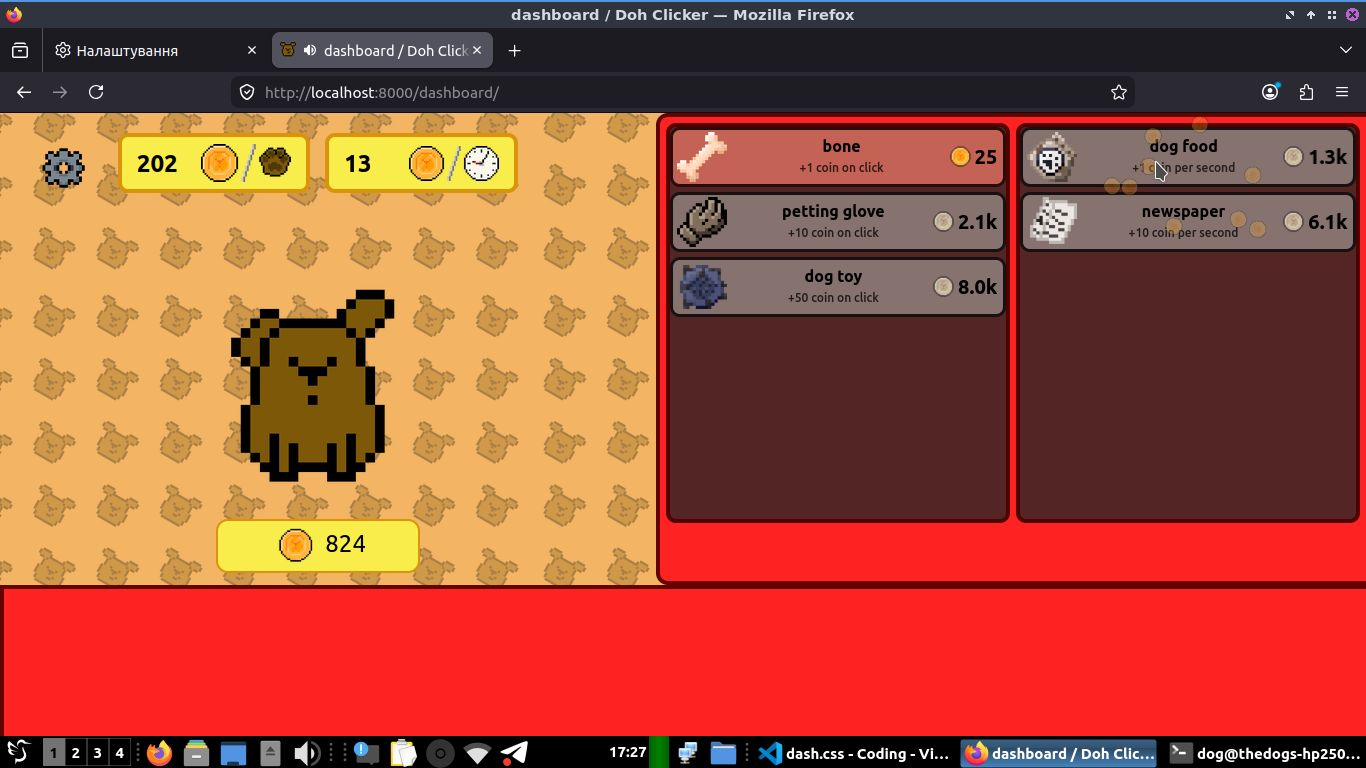
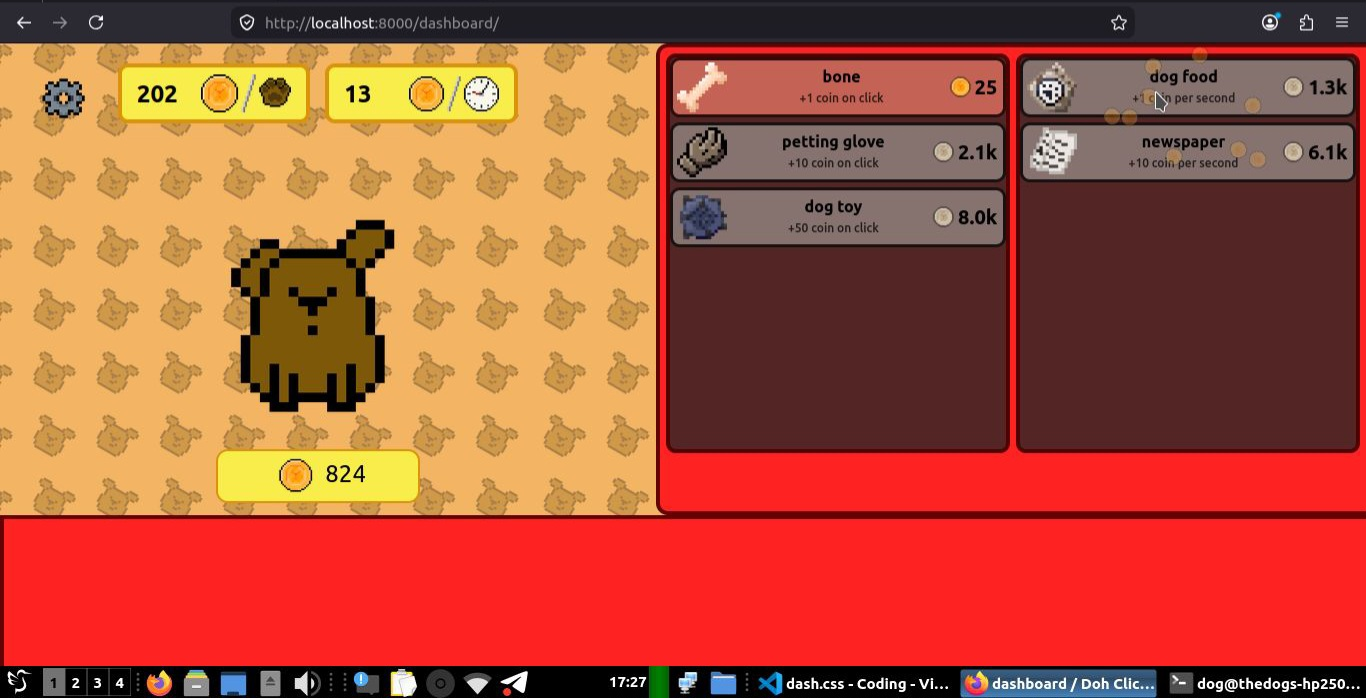
Readme

diff --git a/README.md b/README.md
@@ -1,0 +1,79 @@
+# Doh Clicker
+
+A browser-based clicker game built with Django and pure JS.
+
+The project was created as a learning project to practice backend web development, REST APIs, PostgreSQL, and frontend-backend synchronization to build a full web application.
+
+## Features
+
+- ⚡ Passive income system
+- 📈 Upgrade system
+- 🔊 Sound settings
+- 🔄 Server synchronization
+- 🛡️ Server-side validation
+- 📚 REST API
+- 🐘 PostgreSQL support
+
+---
+
+## Tech Stack
+
+### Backend
+
+- Python
+- Django
+- Django REST Framework
+- PostgreSQL
+
+### Frontend
+
+- HTML
+- CSS
+- Vanilla JavaScript
+
+### Tools
+
+- Locust
+- Swagger
+
+---
+
+## Screenshots
+
+### Main page
+
+![Main page](Dog_Readme/1.jpg)
+
+### Dashboard
+
+![](Dog_Readme/2.jpg)
+![](Dog_Readme/3.jpg)
+
+---
+
+## Video
+
+A full gameplay demonstration of **v0.2** is avaiable [here](https://t.me/empty_channel_00/310).
+
+---
+
+## 🚀 Running locally
+
+```shell
+$ git clone <repo>
+
+$ python -m venv venv
+$ source venv/bin/activate
+
+$ pip install -r requirements.txt
+
+$ python manage.py migrate
+$ python manage.py runserver
+```
+---
+
+## 📌 Status
+
+Current version: **v0.2**
+
+This project serves as a learning project mainly made to demonstrate Django, Django REST Framework, PostgreSQL, client-server synchronization, and basic web application architecture.